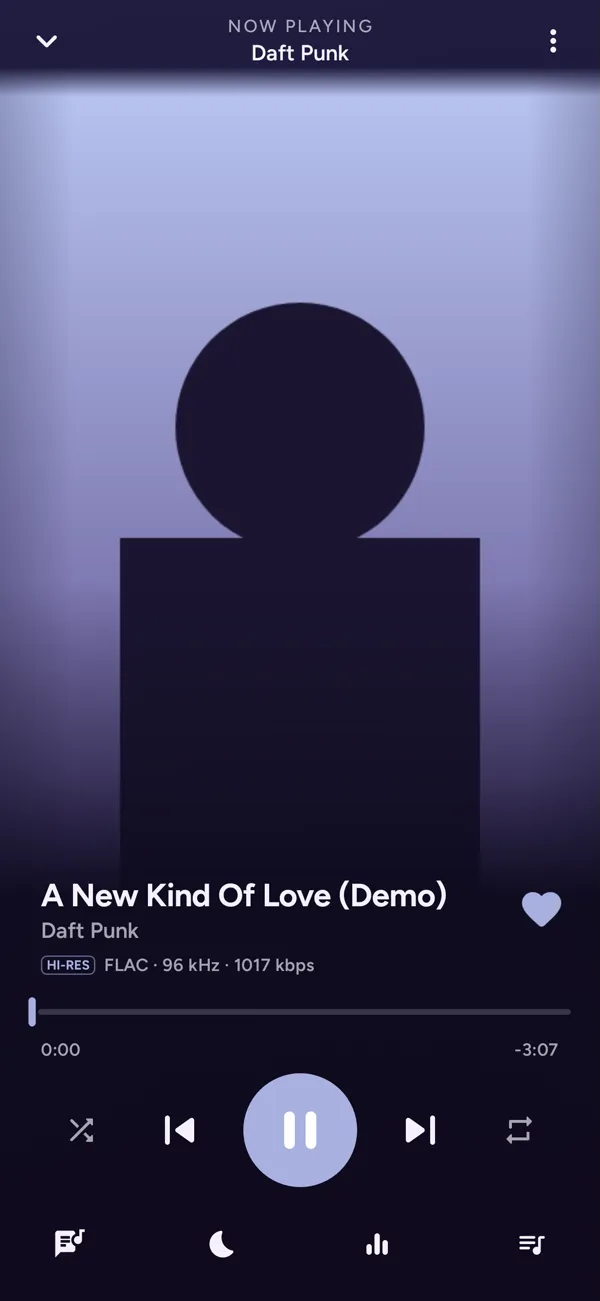
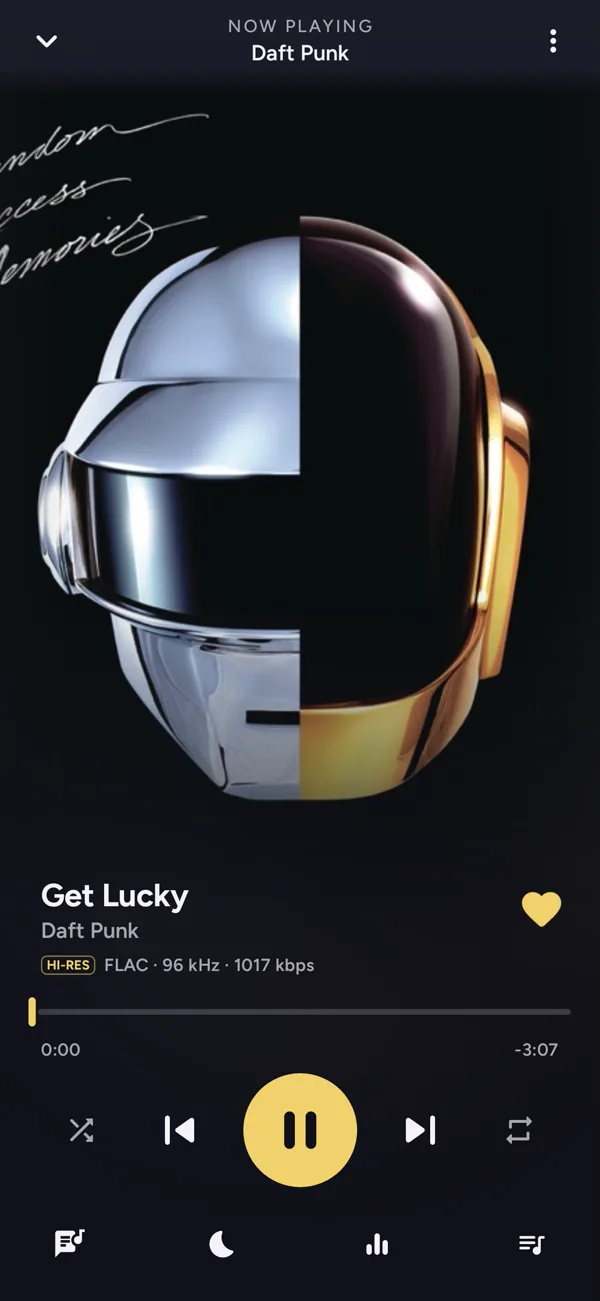
New screenshots with album covers

diff --git a/README.md b/README.md
@@ -20,7 +20,7 @@
 <p align="center">
   <img src="docs/screens/lyrics-word-by-word.webp" width="200" alt="Lyrics lighting up word by word">
   <img src="docs/screens/lyrics-translated.webp" width="200" alt="Lyrics with an English translation under each line">
-  <img src="docs/screens/search.webp" width="200" alt="Search with songs on the phone marked">
+  <img src="docs/screens/full-player-cover.webp" width="200" alt="The player with the album cover">
   <img src="docs/screens/playlist.webp" width="200" alt="A playlist">
 </p>
 
